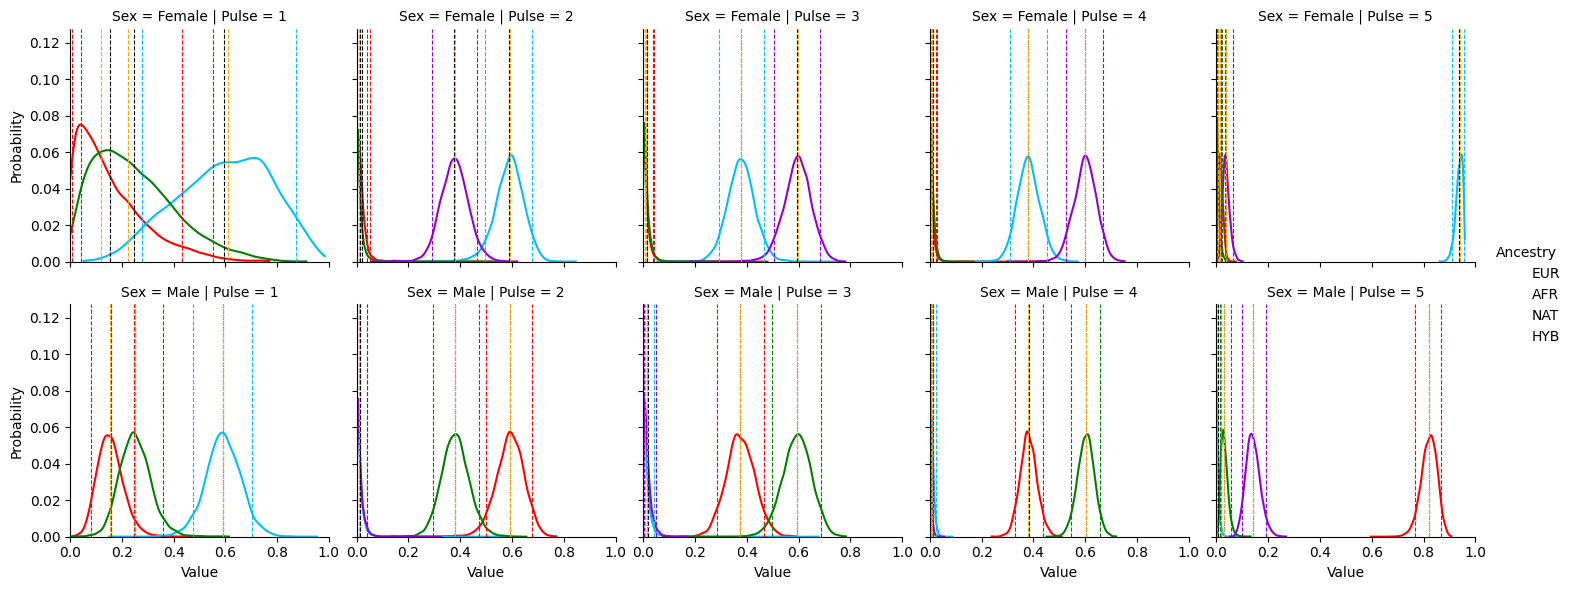
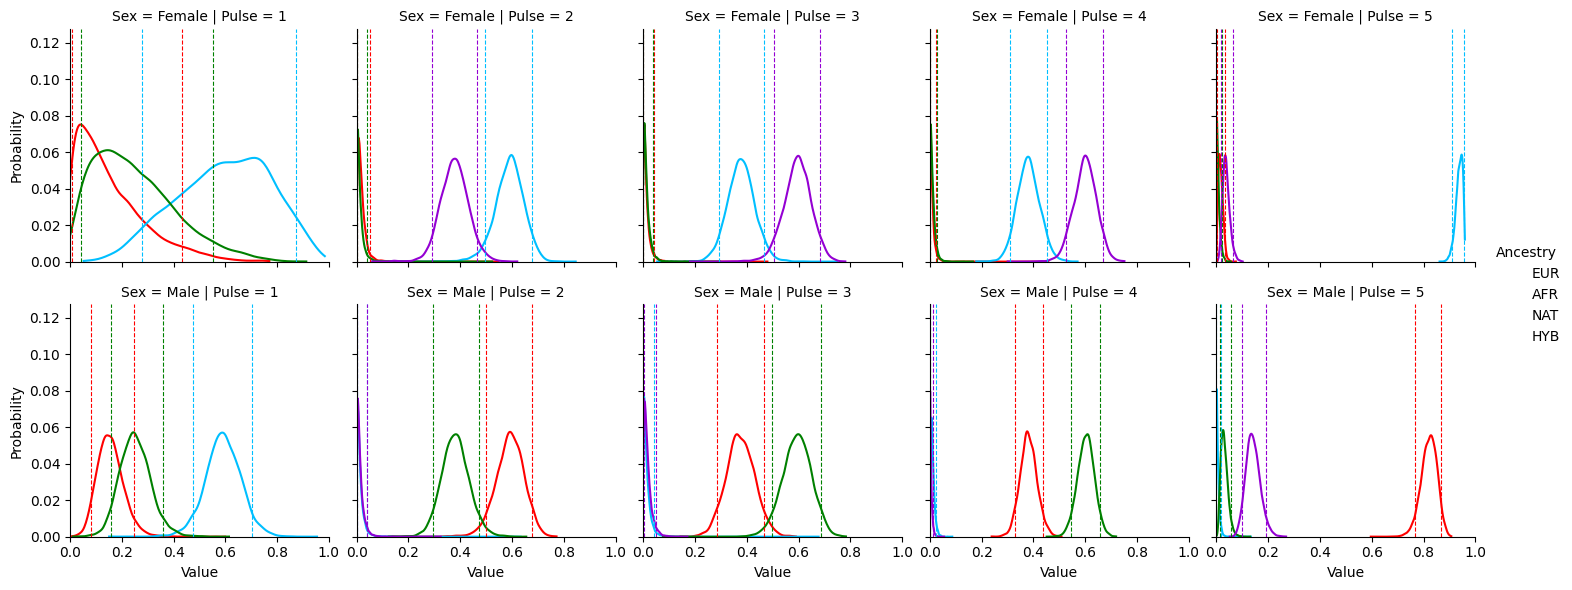
Altered plot functions so that they receive a list of ancestries to plot

diff --git a/script.py b/script.py
@@ -70,38 +70,17 @@ def populate_dataframe(df_raw, first_column_scenario):
     return df_new
 
 #plots graphs for each pulse, separated by sex
-def plot_histograms(df, hybrid, type, savefile):
-    if hybrid == "no_hybrid": 
-        df_temp = df[(df["Ancestry"] != "HYB") & (df["Value"] != 0)]
-        colors = ["red", "deepskyblue", "green"]
-    elif hybrid == "only_hybrid":
-        df_temp = df[(df["Ancestry"] == "HYB") & (df["Value"] != 0)]
-        colors = ["darkviolet"]
-    else:
-        df_temp = df[(df["Value"] != 0)]
-        colors = ["red", "deepskyblue", "green", "darkviolet"]
-
-    graph = sns.FacetGrid(df_temp, col="Pulse", row="Sex", hue="Ancestry", palette=colors)
-    graph = (graph.map_dataframe(sns.histplot, x="Value", multiple=type, stat='probability').add_legend())
-    # graph.set(yscale="log")
-    plt.xlim([0, 1])
-    graph.savefig(savefile)
-
-#plots graphs for each pulse, separated by sex
-def plot_histograms_diff(df, hybrid, type, percentage, savefile):
+def plot_histograms(df, ancestries, type, percentage, savefile):
     sexes = ("Female", "Male")
-    if hybrid == "no_hybrid": 
-        ancestries = ("EUR", "AFR", "NAT")
-        df_hist = df[(df["Ancestry"] != "HYB") & (df["Value"] != 0)]
-        colours = ["red", "deepskyblue", "green"]
-    elif hybrid == "only_hybrid":
-        ancestries = ("HYB", )
-        df_hist = df[(df["Ancestry"] == "HYB") & (df["Value"] != 0)]
-        colours = ["darkviolet"]
-    else:
-        ancestries = ("EUR", "AFR", "NAT", "HYB")
-        df_hist = df[(df["Value"] != 0)]
-        colours = ["red", "deepskyblue", "green", "darkviolet"]
+    colours = list()
+
+    for anc in ancestries:
+        if anc == "EUR": colours.append("red")
+        elif anc == "AFR": colours.append("deepskyblue")
+        elif anc == "NAT": colours.append("green")
+        elif anc == "HYB": colours.append("darkviolet")
+
+    df_hist = df[(df["Ancestry"].isin(ancestries)) & (df["Value"] != 0)]
 
     graph = sns.FacetGrid(df_hist, col="Pulse", row="Sex", hue="Ancestry", palette=colours)
     graph = (graph.map_dataframe(sns.histplot, x="Value", multiple=type, stat='probability').add_legend())
@@ -110,7 +89,7 @@ def plot_histograms_diff(df, hybrid, type, percentage, savefile):
         axes = graph.axes[i]
         for j in range (0, len(axes)):
                 for anc in range (0, len(ancestries)):
-                    if hybrid == "only_hybrid": pulse = j+2
+                    if (len(ancestries) == 1 and ancestries[0] == "HYB"): pulse = j+2
                     else: pulse = j+1
                     df_temp = df_hist.loc[(df_hist["Pulse"] == pulse) & (df_hist["Sex"] == sexes[i]) & (df_hist["Ancestry"] == ancestries[anc])]
                     if df_temp.empty:
@@ -120,35 +99,29 @@ def plot_histograms_diff(df, hybrid, type, percentage, savefile):
                     upper_quantile = np.percentile(df_temp["Value"], (100-((100-percentage)/2)), method="closest_observation")
                     axes[j].axvline(x=lower_quantile, color=colours[anc], linestyle='--', linewidth=0.8, label='05%')
                     axes[j].axvline(x=upper_quantile, color=colours[anc], linestyle='--', linewidth=0.8, label='90%')
-    # graph.set(yscale="log")
     plt.xlim([0, 1])
     graph.savefig(savefile)
 
-def plot_lines(df, hybrid, percentage, savefile):
+def plot_lines(df, ancestries, percentage, savefile):
     sexes = ("Female", "Male")
-    if hybrid == "no_hybrid": 
-        ancestries = ("EUR", "AFR", "NAT")
-        df_hist = df[(df["Ancestry"] != "HYB") & (df["Value"] != 0)]
-        colours = ["red", "deepskyblue", "green"]
-    elif hybrid == "only_hybrid":
-        ancestries = ("HYB", )
-        df_hist = df[(df["Ancestry"] == "HYB") & (df["Value"] != 0)]
-        colours = ["darkviolet"]
-    else:
-        ancestries = ("EUR", "AFR", "NAT", "HYB")
-        df_hist = df[(df["Value"] != 0)]
-        colours = ["red", "deepskyblue", "green", "darkviolet"]
+    colours = list()
+
+    for anc in ancestries:
+        if anc == "EUR": colours.append("red")
+        elif anc == "AFR": colours.append("deepskyblue")
+        elif anc == "NAT": colours.append("green")
+        elif anc == "HYB": colours.append("darkviolet")
+
+    df_hist = df[(df["Ancestry"].isin(ancestries)) & (df["Value"] != 0)]
 
     graph = sns.FacetGrid(df_hist, col="Pulse", row="Sex", hue="Ancestry", palette=colours)
     graph = (graph.map_dataframe(sns.histplot, x="Value", fill=False, linewidth=0, kde=True, stat='probability').add_legend())
-
-    graph._x_var
 
     for i in range(0, 2):
         axes = graph.axes[i]
         for j in range (0, len(axes)):
                 for anc in range (0, len(ancestries)):
-                    if hybrid == "only_hybrid": pulse = j+2
+                    if (len(ancestries) == 1 and ancestries[0] == "HYB"): pulse = j+2
                     else: pulse = j+1
                     df_temp = df_hist.loc[(df_hist["Pulse"] == pulse) & (df_hist["Sex"] == sexes[i]) & (df_hist["Ancestry"] == ancestries[anc])]
                     if df_temp.empty:
@@ -330,12 +303,18 @@ del df
 
 create_directories()
 
-plot_histograms_diff(df_new, "with_hybrid", "layer", 90, "./NO_HDR/Standard/histogram.png")
-plot_lines(df_new, "with_hybrid", 90, "./NO_HDR/Standard/line_graph.png")
-plot_histograms_diff(df_new, "no_hybrid", "layer", 90, "./NO_HDR/Hybrid_Separated/no_hybrid_histogram.png")
-plot_lines(df_new, "no_hybrid", 90, "./NO_HDR/Hybrid_Separated/no_hybrid_line_graph.png")
-plot_histograms_diff(df_new, "only_hybrid", "layer", 90, "./NO_HDR/Hybrid_Separated/only_hybrid_histogram.png")
-plot_lines(df_new, "only_hybrid", 90, "./NO_HDR/Hybrid_Separated/only_hybrid_line_graph.png")
+ancestries = ["EUR", "AFR", "NAT", "HYB"]
+
+plot_histograms(df_new, ancestries, "layer", 90, "./NO_HDR/Standard/histogram.png")
+plot_lines(df_new, ancestries, 90, "./NO_HDR/Standard/line_graph.png")
+
+ancestries = ["EUR", "AFR", "NAT"]
+plot_histograms(df_new, ancestries, "layer", 90, "./NO_HDR/Hybrid_Separated/no_hybrid_histogram.png")
+plot_lines(df_new, ancestries, 90, "./NO_HDR/Hybrid_Separated/no_hybrid_line_graph.png")
+
+ancestries = ["HYB",]
+plot_histograms(df_new, ancestries, "layer", 90, "./NO_HDR/Hybrid_Separated/only_hybrid_histogram.png")
+plot_lines(df_new, ancestries, 90, "./NO_HDR/Hybrid_Separated/only_hybrid_line_graph.png")
 
 write_stats(df_new, "./stats_NO_HDR.csv")
 
